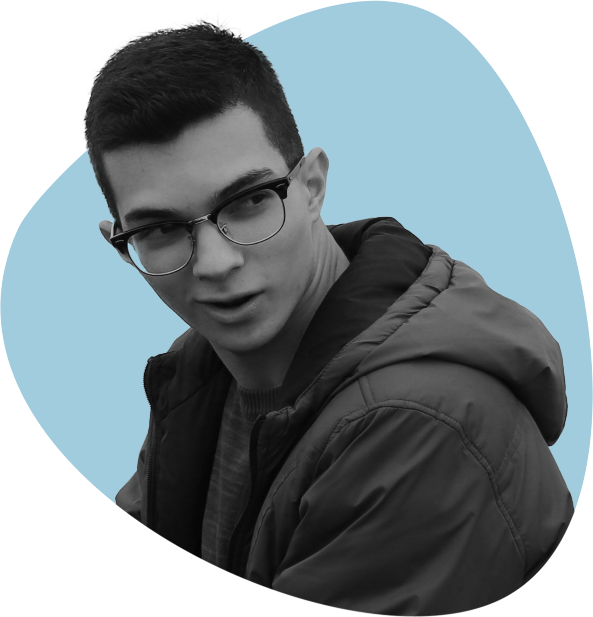
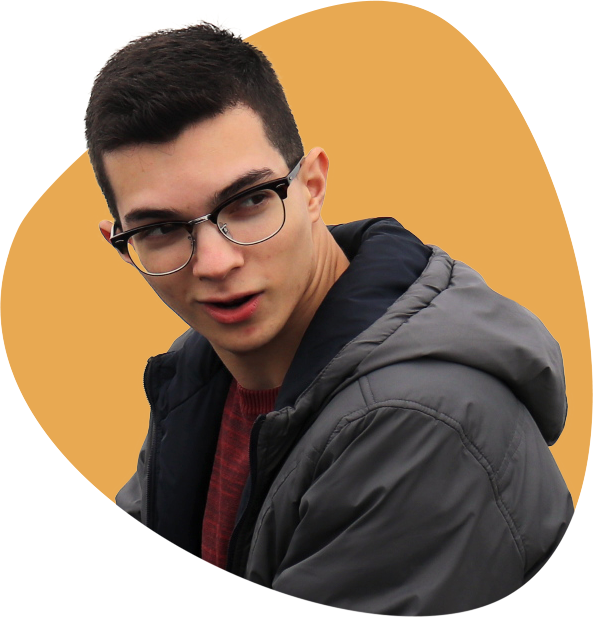
changed colors and adjusted mobile menu

diff --git a/css/app.css b/css/app.css
@@ -1,2 +1,2 @@
-::-webkit-scrollbar{width:7.5px}::-webkit-scrollbar-track{background:#161616}::-webkit-scrollbar-thumb{background:#3c3c3c;border-radius:100px}header .main-menu{display:flex;align-items:center;justify-content:space-between;padding:0 30px;z-index:2;background:#161616;width:100%;position:fixed;top:0}@media (min-width: 768px){header .main-menu{padding:0 80px}}header .main-menu *{font-weight:700}header .main-menu .main-menu-left{display:flex;align-items:center;height:90px;width:100%;justify-content:space-between}@media (min-width: 992px){header .main-menu .main-menu-left{width:initial;justify-content:initial}}header .main-menu .main-menu-left *{display:flex;align-items:center;height:100%}header .main-menu .main-menu-left .main-menu-left-1{margin-right:30px}@media (min-width: 768px){header .main-menu .main-menu-left .main-menu-left-1{margin-right:80px}}header .main-menu .main-menu-left .main-menu-left-1 h1{text-align:left;line-height:1.1rem;font-size:1.2rem}header .main-menu .main-menu-left .main-menu-left-2{display:flex}header .main-menu .main-menu-left .main-menu-left-2 ul{display:flex;font-size:.9rem}header .main-menu .main-menu-left .main-menu-left-2 ul li{margin-right:30px}header .main-menu .main-menu-left .main-menu-left-2 ul li:last-child{margin-right:0}header .main-menu .main-menu-left .main-menu-left-2 ul li.active-page,header .main-menu .main-menu-left .main-menu-left-2 ul li:hover{border-top:10px solid #a1ccdd;margin-top:-10px}header .drop-down-menu{display:none;width:100%;height:100vh;position:fixed;top:90px;right:0;z-index:1;background-color:rgba(22,22,22,0.5)}header .drop-down-menu ul li{font-weight:700;width:100%;display:flex;align-items:center;background:black;border-bottom:1px solid #161616}header .drop-down-menu ul li a{padding:13px 30px;height:50px;width:100%}header .drop-down-menu ul li:hover{background:#161616}header .drop-down-menu.open{display:block}#nav-icon1,#nav-icon2,.hamburger,#nav-icon4{width:60px;height:45px;position:relative;-webkit-transform:rotate(0deg);-moz-transform:rotate(0deg);-o-transform:rotate(0deg);transform:rotate(0deg);-webkit-transition:.5s ease-in-out;-moz-transition:.5s ease-in-out;-o-transition:.5s ease-in-out;transition:.5s ease-in-out;cursor:pointer}#nav-icon1 span,.hamburger span,#nav-icon4 span{display:block;position:absolute;height:9px;width:100%;background:#f1f1f1;border-radius:9px;opacity:1;left:0;-webkit-transform:rotate(0deg);-moz-transform:rotate(0deg);-o-transform:rotate(0deg);transform:rotate(0deg);-webkit-transition:.25s ease-in-out;-moz-transition:.25s ease-in-out;-o-transition:.25s ease-in-out;transition:.25s ease-in-out}#nav-icon1 span:nth-child(1){top:0px}#nav-icon1 span:nth-child(2){top:18px}#nav-icon1 span:nth-child(3){top:36px}#nav-icon1.open span:nth-child(1){top:18px;-webkit-transform:rotate(135deg);-moz-transform:rotate(135deg);-o-transform:rotate(135deg);transform:rotate(135deg)}#nav-icon1.open span:nth-child(2){opacity:0;left:-60px}#nav-icon1.open span:nth-child(3){top:18px;-webkit-transform:rotate(-135deg);-moz-transform:rotate(-135deg);-o-transform:rotate(-135deg);transform:rotate(-135deg)}#nav-icon2 span{display:block;position:absolute;height:9px;width:50%;background:#f1f1f1;opacity:1;-webkit-transform:rotate(0deg);-moz-transform:rotate(0deg);-o-transform:rotate(0deg);transform:rotate(0deg);-webkit-transition:.25s ease-in-out;-moz-transition:.25s ease-in-out;-o-transition:.25s ease-in-out;transition:.25s ease-in-out}#nav-icon2 span:nth-child(even){left:50%;border-radius:0 9px 9px 0}#nav-icon2 span:nth-child(odd){left:0px;border-radius:9px 0 0 9px}#nav-icon2 span:nth-child(1),#nav-icon2 span:nth-child(2){top:0px}#nav-icon2 span:nth-child(3),#nav-icon2 span:nth-child(4){top:18px}#nav-icon2 span:nth-child(5),#nav-icon2 span:nth-child(6){top:36px}#nav-icon2.open span:nth-child(1),#nav-icon2.open span:nth-child(6){-webkit-transform:rotate(45deg);-moz-transform:rotate(45deg);-o-transform:rotate(45deg);transform:rotate(45deg)}#nav-icon2.open span:nth-child(2),#nav-icon2.open span:nth-child(5){-webkit-transform:rotate(-45deg);-moz-transform:rotate(-45deg);-o-transform:rotate(-45deg);transform:rotate(-45deg)}#nav-icon2.open span:nth-child(1){left:5px;top:7px}#nav-icon2.open span:nth-child(2){left:calc(50% - 5px);top:7px}#nav-icon2.open span:nth-child(3){left:-50%;opacity:0}#nav-icon2.open span:nth-child(4){left:100%;opacity:0}#nav-icon2.open span:nth-child(5){left:5px;top:29px}#nav-icon2.open span:nth-child(6){left:calc(50% - 5px);top:29px}.hamburger span:nth-child(1){top:0px}.hamburger span:nth-child(2),.hamburger span:nth-child(3){top:18px}.hamburger span:nth-child(4){top:36px}.hamburger.open span:nth-child(1){top:18px;width:0%;left:50%}.hamburger.open span:nth-child(2){-webkit-transform:rotate(45deg);-moz-transform:rotate(45deg);-o-transform:rotate(45deg);transform:rotate(45deg)}.hamburger.open span:nth-child(3){-webkit-transform:rotate(-45deg);-moz-transform:rotate(-45deg);-o-transform:rotate(-45deg);transform:rotate(-45deg)}.hamburger.open span:nth-child(4){top:18px;width:0%;left:50%}#nav-icon4 span:nth-child(1){top:0px;-webkit-transform-origin:left center;-moz-transform-origin:left center;-o-transform-origin:left center;transform-origin:left center}#nav-icon4 span:nth-child(2){top:18px;-webkit-transform-origin:left center;-moz-transform-origin:left center;-o-transform-origin:left center;transform-origin:left center}#nav-icon4 span:nth-child(3){top:36px;-webkit-transform-origin:left center;-moz-transform-origin:left center;-o-transform-origin:left center;transform-origin:left center}#nav-icon4.open span:nth-child(1){-webkit-transform:rotate(45deg);-moz-transform:rotate(45deg);-o-transform:rotate(45deg);transform:rotate(45deg);top:-3px;left:8px}#nav-icon4.open span:nth-child(2){width:0%;opacity:0}#nav-icon4.open span:nth-child(3){-webkit-transform:rotate(-45deg);-moz-transform:rotate(-45deg);-o-transform:rotate(-45deg);transform:rotate(-45deg);top:39px;left:8px}.hamburger{transform:scale(0.5)}@media (max-width: 575px){main .section-wrapper#welcome{padding-top:0}}@media (min-width: 992px){main .section-wrapper#welcome{padding-top:0;padding-bottom:0}}main .section-wrapper#welcome .landing-wrapper{min-height:40vh;align-items:center;display:flex;position:relative}main .section-wrapper#welcome .landing-wrapper *{text-align:left}@media (max-width: 575px){main .section-wrapper#welcome .landing-wrapper{align-items:flex-start}}@media (min-width: 992px){main .section-wrapper#welcome .landing-wrapper{height:calc(100vh - 90px)}}main .section-wrapper#welcome .landing-wrapper h1#name{font-size:2rem;line-height:2rem;margin-bottom:10px}@media (min-width: 768px){main .section-wrapper#welcome .landing-wrapper h1#name{font-size:3rem;line-height:3rem}}@media (min-width: 992px){main .section-wrapper#welcome .landing-wrapper h1#name{font-size:4rem;line-height:4rem}}main .section-wrapper#welcome .landing-wrapper a#hire-me div{margin-top:40px;display:inline-block;padding:15px;border-radius:100px;background:#f1f1f1;color:#161616;width:120px;text-align:center;font-weight:700}@media (min-width: 768px){main .section-wrapper#welcome .landing-wrapper a#hire-me div{padding:20px;width:150px}}main .section-wrapper#welcome .landing-wrapper a#hire-me div:hover{background:#a1ccdd}main .section-wrapper#welcome .landing-wrapper .img-holder{text-align:center;margin:20px 0 40px}@media (min-width: 768px){main .section-wrapper#welcome .landing-wrapper .img-holder{padding-left:40px;margin:initial;text-align:initial}}main .section-wrapper#welcome .landing-wrapper .img-holder img{max-width:80%}@media (min-width: 768px){main .section-wrapper#welcome .landing-wrapper .img-holder img{max-width:100%}}.scroll-downs{position:absolute;right:0;bottom:20px;left:0;margin:auto;width:29px;height:51px}.scroll-downs .mousey{width:3px;padding:8px 11px;height:27px;border:2px solid #161616;border-radius:25px;opacity:0.75;box-sizing:content-box}.scroll-downs .mousey .scroller{width:3px;height:10px;border-radius:25%;background-color:#161616;animation-name:scroll;animation-duration:2s;animation-timing-function:cubic-bezier(0.15, 0.41, 0.69, 0.94);animation-iteration-count:infinite}@keyframes scroll{0%{opacity:0}10%{transform:translateY(0);opacity:1}100%{transform:translateY(15px);opacity:0}}main section>h1{font-size:1.5rem;margin-bottom:30px;text-align:left}@media (min-width: 768px){main section>h1{font-size:2rem;text-align:center}}@media (min-width: 992px){main section>h1{font-size:2.5rem;margin-bottom:60px}}main section.services-megawrapper{margin:auto}main section.services-megawrapper *{text-align:left}main section.services-megawrapper .service-cards-wrapper{display:grid;grid-template-columns:repeat(1, 1fr);grid-gap:30px}@media (min-width: 768px){main section.services-megawrapper .service-cards-wrapper{grid-template-columns:repeat(2, 1fr)}}@media (min-width: 992px){main section.services-megawrapper .service-cards-wrapper{grid-template-columns:repeat(2, 1fr);grid-gap:60px}}main section.services-megawrapper .service-cards-wrapper .service-card h2{font-size:1rem;text-align:left;margin-bottom:20px;position:relative}@media (min-width: 768px){main section.services-megawrapper .service-cards-wrapper .service-card h2{font-size:1.25rem}}@media (min-width: 992px){main section.services-megawrapper .service-cards-wrapper .service-card h2{font-size:1.5rem}}main section.services-megawrapper .service-cards-wrapper .service-card h2:after{content:"";position:absolute;left:0;bottom:-8px;background:#a1ccdd;height:5px;width:50px}main section.services-megawrapper .service-cards-wrapper .service-card p{font-size:.8rem}@media (min-width: 768px){main section.services-megawrapper .service-cards-wrapper .service-card p{font-size:.9rem}}@media (min-width: 992px){main section.services-megawrapper .service-cards-wrapper .service-card p{font-size:1rem}}main section.services-megawrapper .service-cards-wrapper .service-card .more-work{margin-top:10px;font-weight:700;color:#a1ccdd !important;font-size:.8rem}main section.services-megawrapper .service-cards-wrapper .service-card .more-work i{font-weight:700;color:#a1ccdd !important;font-size:.8rem}.work-wrapper .projects-grid .project-category-wrapper{margin-bottom:50px}@media (max-width: 575px){.work-wrapper .projects-grid .project-category-wrapper{margin-bottom:30px}}.work-wrapper .projects-grid .project-category-wrapper>h1{font-size:1rem;text-align:left;margin-bottom:20px;position:relative}@media (min-width: 768px){.work-wrapper .projects-grid .project-category-wrapper>h1{font-size:1.25rem}}@media (min-width: 992px){.work-wrapper .projects-grid .project-category-wrapper>h1{font-size:1.5rem}}.work-wrapper .projects-grid .project-category-wrapper>h1:after{content:"";position:absolute;left:0;bottom:-8px;background:#a1ccdd;height:5px;width:50px}.work-wrapper .projects-grid .single-project-wrapper{display:grid;grid-template-columns:repeat(1, 1fr);grid-gap:30px}@media (min-width: 768px){.work-wrapper .projects-grid .single-project-wrapper{grid-template-columns:repeat(2, 1fr)}}@media (min-width: 992px){.work-wrapper .projects-grid .single-project-wrapper{grid-template-columns:repeat(3, 1fr);grid-gap:60px}}.work-wrapper .projects-grid .single-project-wrapper .project-image-holder{overflow:hidden;border-radius:2px}.work-wrapper .projects-grid .single-project-wrapper .project-image-holder img{object-fit:cover;height:100%;width:100%;transition:transform ease 0.2s}@media (min-width: 768px){.work-wrapper .projects-grid .single-project-wrapper .project-image-holder img{height:18vw}}@media (min-width: 992px){.work-wrapper .projects-grid .single-project-wrapper .project-image-holder img{height:12vw}}.work-wrapper .projects-grid .single-project-wrapper .project-image-holder img:hover{transform:scale(1.05)}.work-wrapper .projects-grid .single-project-wrapper h1{text-align:left;margin-bottom:10px;font-size:.8rem}@media (min-width: 768px){.work-wrapper .projects-grid .single-project-wrapper h1{font-size:.9rem}}@media (min-width: 992px){.work-wrapper .projects-grid .single-project-wrapper h1{font-size:1rem}}html,body,div,span,applet,object,iframe,h1,h2,h3,h4,h5,h6,p,blockquote,pre,a,abbr,acronym,address,big,cite,code,del,dfn,em,img,ins,kbd,q,s,samp,small,strike,strong,sub,sup,tt,var,b,u,i,center,dl,dt,dd,ol,ul,li,fieldset,form,label,legend,table,caption,tbody,tfoot,thead,tr,th,td,article,aside,canvas,details,embed,figure,figcaption,footer,header,hgroup,menu,nav,output,ruby,section,summary,time,mark,audio,video{margin:0;padding:0;border:0;font-size:100%;vertical-align:baseline}article,aside,details,figcaption,figure,footer,header,hgroup,menu,nav,section{display:block}body{line-height:1}ol,ul{list-style:none}blockquote,q{quotes:none}blockquote:before,blockquote:after,q:before,q:after{content:'';content:none}table{border-collapse:collapse;border-spacing:0}*{margin:0;padding:0;font-family:'Montserrat', sans-serif;color:#f1f1f1}h1,h2,h3,h4,h5,h6{text-align:center;font-family:'Montserrat', sans-serif;font-weight:700}a,i,p{margin:0}p{text-align:justify;text-justify:inter-word}ul{list-style:none;margin:0}ol{margin-bottom:0}body{background:#161616}a,a:link,a:visited{color:#f1f1f1}body{padding-top:90px}.section-wrapper{padding:50px 80px;max-width:1500px;margin:auto}@media (max-width: 575px){.section-wrapper{max-width:500px;padding:50px 30px}}.section-wrapper.first-section{padding-top:10px}@media (min-width: 768px){.section-wrapper.first-section{padding-top:30px}}@media (min-width: 992px){.section-wrapper.first-section{padding-top:50px}}
+::-webkit-scrollbar{width:7.5px}::-webkit-scrollbar-track{background:#232637}::-webkit-scrollbar-thumb{background:#414666;border-radius:100px}header .main-menu{display:flex;align-items:center;justify-content:space-between;padding:0 30px;z-index:2;background:#232637;width:100%;position:fixed;top:0}@media (min-width: 768px){header .main-menu{padding:0 80px}}header .main-menu *{font-weight:700}header .main-menu .main-menu-left{display:flex;align-items:center;height:90px;width:100%;justify-content:space-between}header .main-menu .main-menu-left *{display:flex;align-items:center;height:100%}header .main-menu .main-menu-left .main-menu-left-1{margin-right:30px}@media (min-width: 768px){header .main-menu .main-menu-left .main-menu-left-1{margin-right:80px}}header .main-menu .main-menu-left .main-menu-left-1 h1{text-align:left;line-height:1.1rem;font-size:1.2rem}header .main-menu .main-menu-left .main-menu-left-2{display:flex}header .main-menu .main-menu-left .main-menu-left-2 ul{display:flex;font-size:.9rem}header .main-menu .main-menu-left .main-menu-left-2 ul li{margin-right:30px}header .main-menu .main-menu-left .main-menu-left-2 ul li:last-child{margin-right:0}header .main-menu .main-menu-left .main-menu-left-2 ul li.active-page,header .main-menu .main-menu-left .main-menu-left-2 ul li:hover{border-top:10px solid #e8a952;margin-top:-10px}header .drop-down-menu{display:none;width:100%;height:100vh;position:fixed;top:90px;right:0;z-index:1;background-color:rgba(35,38,55,0.7)}header .drop-down-menu ul{background-color:#191b27}header .drop-down-menu ul li{font-weight:700;width:100%;display:flex;align-items:center;border-bottom:1px solid #232637}header .drop-down-menu ul li a{padding:13px 30px;height:50px;width:100%}header .drop-down-menu ul li:hover{background:#232637}header .drop-down-menu.open{display:block}#nav-icon1,#nav-icon2,.hamburger,#nav-icon4{width:60px;height:45px;position:relative;-webkit-transform:rotate(0deg);-moz-transform:rotate(0deg);-o-transform:rotate(0deg);transform:rotate(0deg);-webkit-transition:.5s ease-in-out;-moz-transition:.5s ease-in-out;-o-transition:.5s ease-in-out;transition:.5s ease-in-out;cursor:pointer}#nav-icon1 span,.hamburger span,#nav-icon4 span{display:block;position:absolute;height:9px;width:100%;background:#f1f1f1;border-radius:9px;opacity:1;left:0;-webkit-transform:rotate(0deg);-moz-transform:rotate(0deg);-o-transform:rotate(0deg);transform:rotate(0deg);-webkit-transition:.25s ease-in-out;-moz-transition:.25s ease-in-out;-o-transition:.25s ease-in-out;transition:.25s ease-in-out}#nav-icon1 span:nth-child(1){top:0px}#nav-icon1 span:nth-child(2){top:18px}#nav-icon1 span:nth-child(3){top:36px}#nav-icon1.open span:nth-child(1){top:18px;-webkit-transform:rotate(135deg);-moz-transform:rotate(135deg);-o-transform:rotate(135deg);transform:rotate(135deg)}#nav-icon1.open span:nth-child(2){opacity:0;left:-60px}#nav-icon1.open span:nth-child(3){top:18px;-webkit-transform:rotate(-135deg);-moz-transform:rotate(-135deg);-o-transform:rotate(-135deg);transform:rotate(-135deg)}#nav-icon2 span{display:block;position:absolute;height:9px;width:50%;background:#f1f1f1;opacity:1;-webkit-transform:rotate(0deg);-moz-transform:rotate(0deg);-o-transform:rotate(0deg);transform:rotate(0deg);-webkit-transition:.25s ease-in-out;-moz-transition:.25s ease-in-out;-o-transition:.25s ease-in-out;transition:.25s ease-in-out}#nav-icon2 span:nth-child(even){left:50%;border-radius:0 9px 9px 0}#nav-icon2 span:nth-child(odd){left:0px;border-radius:9px 0 0 9px}#nav-icon2 span:nth-child(1),#nav-icon2 span:nth-child(2){top:0px}#nav-icon2 span:nth-child(3),#nav-icon2 span:nth-child(4){top:18px}#nav-icon2 span:nth-child(5),#nav-icon2 span:nth-child(6){top:36px}#nav-icon2.open span:nth-child(1),#nav-icon2.open span:nth-child(6){-webkit-transform:rotate(45deg);-moz-transform:rotate(45deg);-o-transform:rotate(45deg);transform:rotate(45deg)}#nav-icon2.open span:nth-child(2),#nav-icon2.open span:nth-child(5){-webkit-transform:rotate(-45deg);-moz-transform:rotate(-45deg);-o-transform:rotate(-45deg);transform:rotate(-45deg)}#nav-icon2.open span:nth-child(1){left:5px;top:7px}#nav-icon2.open span:nth-child(2){left:calc(50% - 5px);top:7px}#nav-icon2.open span:nth-child(3){left:-50%;opacity:0}#nav-icon2.open span:nth-child(4){left:100%;opacity:0}#nav-icon2.open span:nth-child(5){left:5px;top:29px}#nav-icon2.open span:nth-child(6){left:calc(50% - 5px);top:29px}.hamburger span:nth-child(1){top:0px}.hamburger span:nth-child(2),.hamburger span:nth-child(3){top:18px}.hamburger span:nth-child(4){top:36px}.hamburger.open span:nth-child(1){top:18px;width:0%;left:50%}.hamburger.open span:nth-child(2){-webkit-transform:rotate(45deg);-moz-transform:rotate(45deg);-o-transform:rotate(45deg);transform:rotate(45deg)}.hamburger.open span:nth-child(3){-webkit-transform:rotate(-45deg);-moz-transform:rotate(-45deg);-o-transform:rotate(-45deg);transform:rotate(-45deg)}.hamburger.open span:nth-child(4){top:18px;width:0%;left:50%}#nav-icon4 span:nth-child(1){top:0px;-webkit-transform-origin:left center;-moz-transform-origin:left center;-o-transform-origin:left center;transform-origin:left center}#nav-icon4 span:nth-child(2){top:18px;-webkit-transform-origin:left center;-moz-transform-origin:left center;-o-transform-origin:left center;transform-origin:left center}#nav-icon4 span:nth-child(3){top:36px;-webkit-transform-origin:left center;-moz-transform-origin:left center;-o-transform-origin:left center;transform-origin:left center}#nav-icon4.open span:nth-child(1){-webkit-transform:rotate(45deg);-moz-transform:rotate(45deg);-o-transform:rotate(45deg);transform:rotate(45deg);top:-3px;left:8px}#nav-icon4.open span:nth-child(2){width:0%;opacity:0}#nav-icon4.open span:nth-child(3){-webkit-transform:rotate(-45deg);-moz-transform:rotate(-45deg);-o-transform:rotate(-45deg);transform:rotate(-45deg);top:39px;left:8px}.hamburger{transform:scale(0.5)}@media (max-width: 575px){main .section-wrapper#welcome{padding-top:0}}@media (min-width: 992px){main .section-wrapper#welcome{padding-top:0;padding-bottom:0}}main .section-wrapper#welcome .landing-wrapper{min-height:40vh;align-items:center;display:flex;position:relative}main .section-wrapper#welcome .landing-wrapper *{text-align:left}@media (max-width: 575px){main .section-wrapper#welcome .landing-wrapper{align-items:flex-start}}@media (min-width: 992px){main .section-wrapper#welcome .landing-wrapper{height:calc(100vh - 90px)}}main .section-wrapper#welcome .landing-wrapper h1#name{font-size:2rem;line-height:2rem;margin-bottom:10px}@media (min-width: 768px){main .section-wrapper#welcome .landing-wrapper h1#name{font-size:3rem;line-height:3rem}}@media (min-width: 992px){main .section-wrapper#welcome .landing-wrapper h1#name{font-size:4rem;line-height:4rem}}main .section-wrapper#welcome .landing-wrapper a#hire-me div{margin-top:40px;display:inline-block;padding:15px;border-radius:100px;background:#f1f1f1;color:#232637;width:120px;text-align:center;font-weight:700}@media (min-width: 768px){main .section-wrapper#welcome .landing-wrapper a#hire-me div{padding:20px;width:150px}}main .section-wrapper#welcome .landing-wrapper a#hire-me div:hover{background:#e8a952}main .section-wrapper#welcome .landing-wrapper .img-holder{text-align:center;margin:20px 0 40px}@media (min-width: 768px){main .section-wrapper#welcome .landing-wrapper .img-holder{padding-left:40px;margin:initial;text-align:initial}}main .section-wrapper#welcome .landing-wrapper .img-holder img{max-width:80%}@media (min-width: 768px){main .section-wrapper#welcome .landing-wrapper .img-holder img{max-width:100%}}.scroll-downs{position:absolute;right:0;bottom:20px;left:0;margin:auto;width:29px;height:51px}.scroll-downs .mousey{width:3px;padding:8px 11px;height:27px;border:2px solid #232637;border-radius:25px;opacity:0.75;box-sizing:content-box}.scroll-downs .mousey .scroller{width:3px;height:10px;border-radius:25%;background-color:#232637;animation-name:scroll;animation-duration:2s;animation-timing-function:cubic-bezier(0.15, 0.41, 0.69, 0.94);animation-iteration-count:infinite}@keyframes scroll{0%{opacity:0}10%{transform:translateY(0);opacity:1}100%{transform:translateY(15px);opacity:0}}main section>h1{font-size:1.5rem;margin-bottom:30px;text-align:left}@media (min-width: 768px){main section>h1{font-size:2rem;text-align:center}}@media (min-width: 992px){main section>h1{font-size:2.5rem;margin-bottom:60px}}main section.services-megawrapper{margin:auto}main section.services-megawrapper *{text-align:left}main section.services-megawrapper .service-cards-wrapper{display:grid;grid-template-columns:repeat(1, 1fr);grid-gap:30px}@media (min-width: 768px){main section.services-megawrapper .service-cards-wrapper{grid-template-columns:repeat(2, 1fr)}}@media (min-width: 992px){main section.services-megawrapper .service-cards-wrapper{grid-template-columns:repeat(2, 1fr);grid-gap:60px}}main section.services-megawrapper .service-cards-wrapper .service-card h2{font-size:1rem;text-align:left;margin-bottom:20px;position:relative}@media (min-width: 768px){main section.services-megawrapper .service-cards-wrapper .service-card h2{font-size:1.25rem}}@media (min-width: 992px){main section.services-megawrapper .service-cards-wrapper .service-card h2{font-size:1.5rem}}main section.services-megawrapper .service-cards-wrapper .service-card h2:after{content:"";position:absolute;left:0;bottom:-8px;background:#e8a952;height:5px;width:50px}main section.services-megawrapper .service-cards-wrapper .service-card p{font-size:.8rem}@media (min-width: 768px){main section.services-megawrapper .service-cards-wrapper .service-card p{font-size:.9rem}}@media (min-width: 992px){main section.services-megawrapper .service-cards-wrapper .service-card p{font-size:1rem}}main section.services-megawrapper .service-cards-wrapper .service-card .more-work{margin-top:10px;font-weight:700;color:#e8a952 !important;font-size:.8rem}main section.services-megawrapper .service-cards-wrapper .service-card .more-work i{font-weight:700;color:#e8a952 !important;font-size:.8rem}.work-wrapper .projects-grid .project-category-wrapper{margin-bottom:50px}@media (max-width: 575px){.work-wrapper .projects-grid .project-category-wrapper{margin-bottom:30px}}.work-wrapper .projects-grid .project-category-wrapper>h1{font-size:1rem;text-align:left;margin-bottom:20px;position:relative}@media (min-width: 768px){.work-wrapper .projects-grid .project-category-wrapper>h1{font-size:1.25rem}}@media (min-width: 992px){.work-wrapper .projects-grid .project-category-wrapper>h1{font-size:1.5rem}}.work-wrapper .projects-grid .project-category-wrapper>h1:after{content:"";position:absolute;left:0;bottom:-8px;background:#e8a952;height:5px;width:50px}.work-wrapper .projects-grid .single-project-wrapper{display:grid;grid-template-columns:repeat(1, 1fr);grid-gap:30px}@media (min-width: 768px){.work-wrapper .projects-grid .single-project-wrapper{grid-template-columns:repeat(2, 1fr)}}@media (min-width: 992px){.work-wrapper .projects-grid .single-project-wrapper{grid-template-columns:repeat(3, 1fr);grid-gap:60px}}.work-wrapper .projects-grid .single-project-wrapper .project-image-holder{overflow:hidden;border-radius:2px}.work-wrapper .projects-grid .single-project-wrapper .project-image-holder img{object-fit:cover;height:100%;width:100%;transition:transform ease 0.2s}@media (min-width: 768px){.work-wrapper .projects-grid .single-project-wrapper .project-image-holder img{height:18vw}}@media (min-width: 992px){.work-wrapper .projects-grid .single-project-wrapper .project-image-holder img{height:12vw}}.work-wrapper .projects-grid .single-project-wrapper .project-image-holder img:hover{transform:scale(1.05)}.work-wrapper .projects-grid .single-project-wrapper h1{text-align:left;margin-bottom:10px;font-size:.8rem}@media (min-width: 768px){.work-wrapper .projects-grid .single-project-wrapper h1{font-size:.9rem}}@media (min-width: 992px){.work-wrapper .projects-grid .single-project-wrapper h1{font-size:1rem}}html,body,div,span,applet,object,iframe,h1,h2,h3,h4,h5,h6,p,blockquote,pre,a,abbr,acronym,address,big,cite,code,del,dfn,em,img,ins,kbd,q,s,samp,small,strike,strong,sub,sup,tt,var,b,u,i,center,dl,dt,dd,ol,ul,li,fieldset,form,label,legend,table,caption,tbody,tfoot,thead,tr,th,td,article,aside,canvas,details,embed,figure,figcaption,footer,header,hgroup,menu,nav,output,ruby,section,summary,time,mark,audio,video{margin:0;padding:0;border:0;font-size:100%;vertical-align:baseline}article,aside,details,figcaption,figure,footer,header,hgroup,menu,nav,section{display:block}body{line-height:1}ol,ul{list-style:none}blockquote,q{quotes:none}blockquote:before,blockquote:after,q:before,q:after{content:'';content:none}table{border-collapse:collapse;border-spacing:0}*{margin:0;padding:0;font-family:'Montserrat', sans-serif;color:#f1f1f1}h1,h2,h3,h4,h5,h6{text-align:center;font-family:'Montserrat', sans-serif;font-weight:700}a,i,p{margin:0}p{text-align:justify;text-justify:inter-word}ul{list-style:none;margin:0}ol{margin-bottom:0}body{background:#232637}a,a:link,a:visited{color:#f1f1f1}body{padding-top:90px}.section-wrapper{padding:50px 80px;max-width:1500px;margin:auto}@media (max-width: 575px){.section-wrapper{max-width:500px;padding:50px 30px}}.section-wrapper.first-section{padding-top:10px}@media (min-width: 768px){.section-wrapper.first-section{padding-top:30px}}@media (min-width: 992px){.section-wrapper.first-section{padding-top:50px}}
 /*# sourceMappingURL=app.css.map */

diff --git a/scss/_main-menu.scss b/scss/_main-menu.scss
@@ -26,10 +26,10 @@ header {
 			width: 100%;
 			justify-content: space-between;
 
-			@include largeScreen {
+			/*@include largeScreen {
 				width: initial;
 				justify-content: initial;
-			}
+			}*/
 
 			* {
 				display: flex;
@@ -86,15 +86,16 @@ header {
 		right: 0;
 		z-index: 1;
 
-		background-color: rgba( $bg-color, .5 );
+		background-color: rgba( $bg-color, .70 );
 
 		ul {
+			background-color: darken( $bg-color, 5%);
+
 			li {
 				font-weight: 700;
 				width: 100%;
 				display: flex;
 				align-items: center;
-				background: black;
 				border-bottom: 1px solid $bg-color;
 
 				a {

diff --git a/index.html b/index.html
@@ -73,7 +73,7 @@
 			<div class="section-wrapper" id="welcome">
 				<div class="landing-wrapper grid-x">
 					<div class="cell small-12 small-order-2 medium-7 medium-order-1 large-6">
-						<h1 id="name">Hello! I'm Diogo</h1>
+						<h1 id="name">Hello! I'm Diogo.</h1>
 						<p>Designer based in Madeira. I like coding, photography and illustration.</p>
 						<a href="#" id="hire-me" title="Hire me">
 							<div>Let's talk!</div>

diff --git a/scss/_variables-and-mixins.scss b/scss/_variables-and-mixins.scss
@@ -1,13 +1,13 @@
 /* VARIABLES */
 
- $bg-color: #161616;
+ $bg-color: #232637;
  $text-color: #f1f1f1;
 
  $cyan: #00aeef;
  $magenta: #ec008c;
  $yellow: #fff200;
 
- $bloo: #a1ccdd;
+ $bloo: #e8a952;
 
  $main-menu-height: 90px;
 
